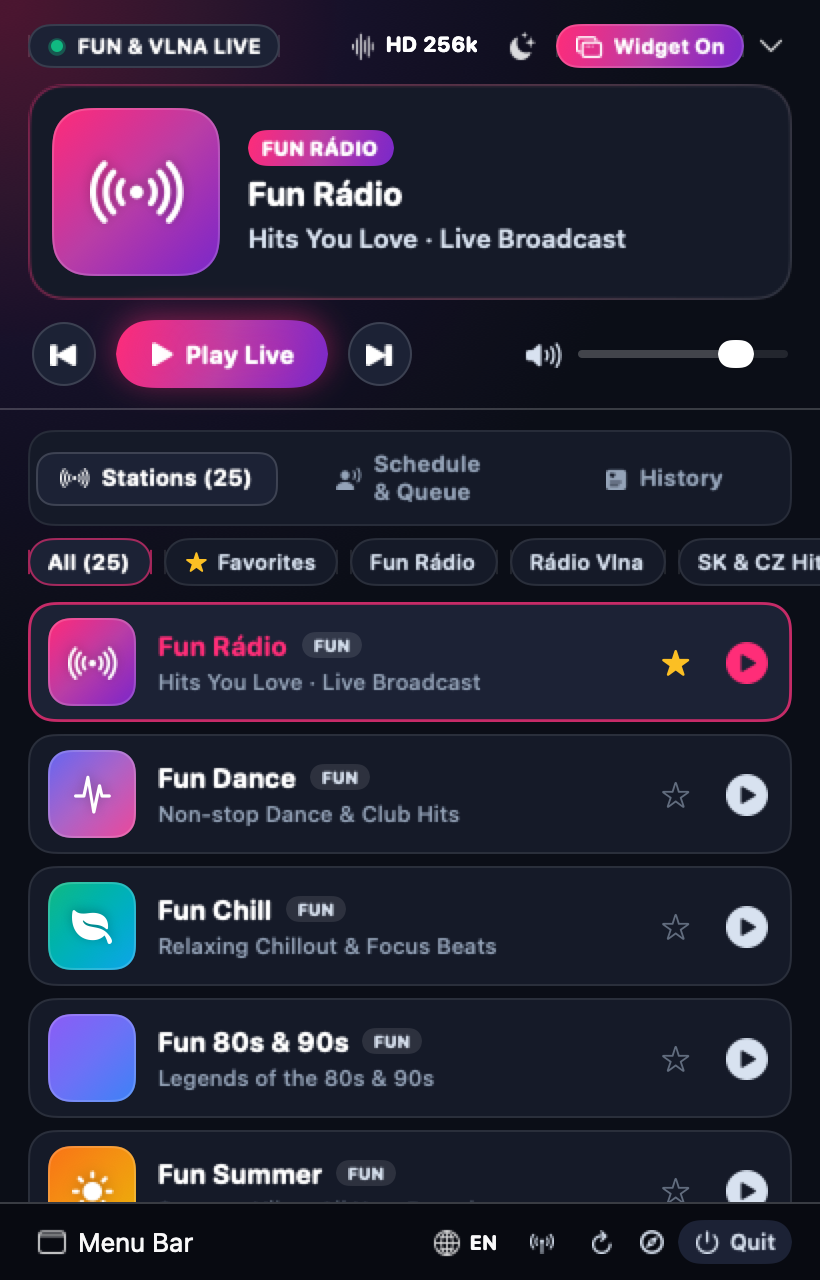
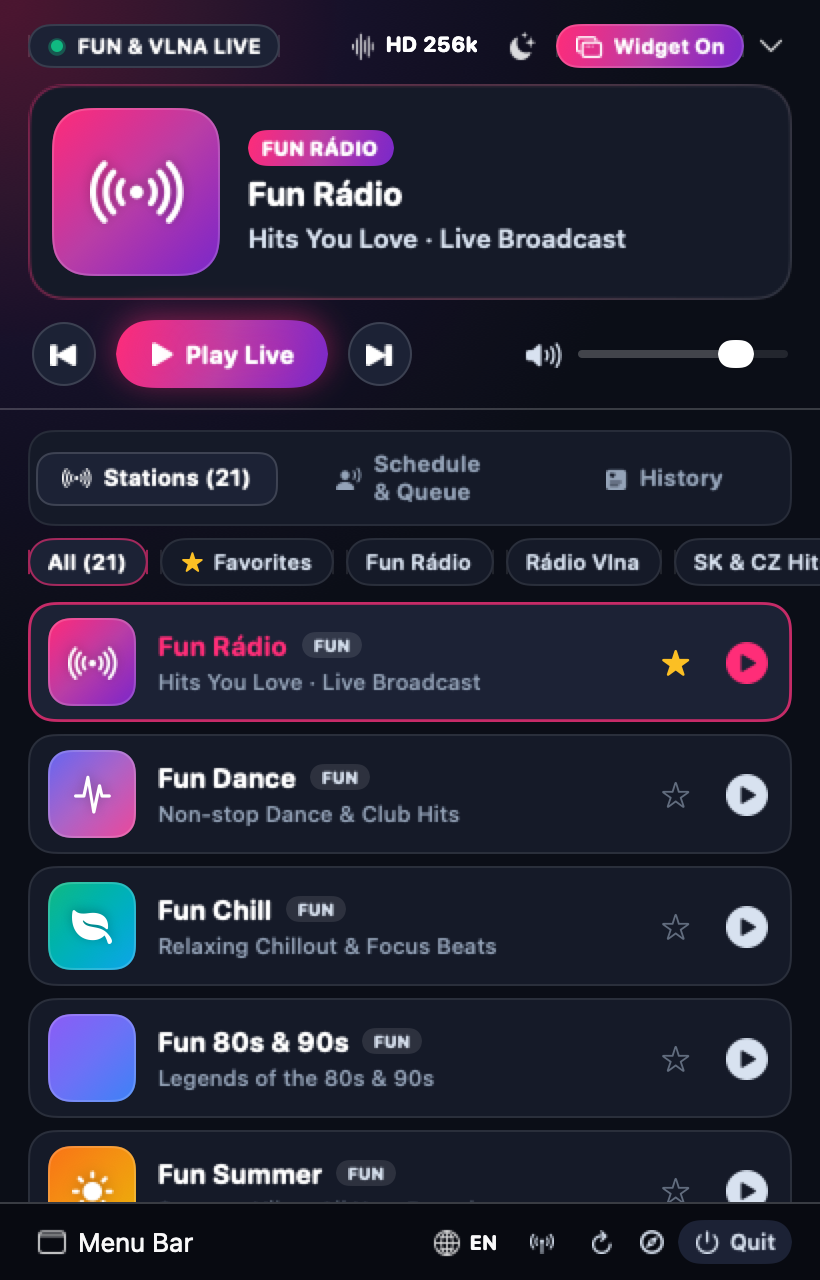
Remove SomaFM stations and document provider listening terms

diff --git a/Sources/FunRadioBar/Models/RadioModels.swift b/Sources/FunRadioBar/Models/RadioModels.swift
@@ -10,7 +10,6 @@ enum RadioNetwork: String, CaseIterable, Identifiable, Codable {
     case vlna = "vlna"
     case bauerAndCz = "bauerAndCz"
     case stvr = "stvr"
-    case somaFM = "somaFM"
 
     var id: String { rawValue }
 
@@ -20,7 +19,6 @@ enum RadioNetwork: String, CaseIterable, Identifiable, Codable {
         case .vlna: return "VLNA"
         case .bauerAndCz: return "SK/CZ"
         case .stvr: return "STVR"
-        case .somaFM: return "SOMAFM"
         case .all, .favorites: return "LIVE"
         }
     }
@@ -30,7 +28,6 @@ enum RadioNetwork: String, CaseIterable, Identifiable, Codable {
         case .vlna: return URL(string: "https://www.radiovlna.sk")!
         case .bauerAndCz: return URL(string: "https://www.expres.sk")!
         case .stvr: return URL(string: "https://www.stvr.sk/radia")!
-        case .somaFM: return URL(string: "https://somafm.com")!
         default: return URL(string: "https://www.funradio.sk")!
         }
     }
@@ -416,64 +413,6 @@ struct RadioStation: Identifiable, Hashable, Codable {
             standardURL: "https://icecast.stv.livebox.sk/devin_128.mp3",
             hdURL: "https://icecast.stv.livebox.sk/devin_128.mp3",
             ecoURL: "https://icecast.stv.livebox.sk/devin_128.mp3"
-        ),
-
-        // --- 5. SOMAFM CODING & FOCUS CHANNELS (4) ---
-        RadioStation(
-            id: "soma_groovesalad",
-            sepiaKey: "groovesalad",
-            icecastMount: "",
-            name: "SomaFM Groove Salad",
-            subtitle: "Ambient & downtempo beats pre prácu",
-            network: .somaFM,
-            symbolName: "sparkles.tv.fill",
-            primaryColorHex: 0x14B8A6,
-            secondaryColorHex: 0x0F766E,
-            standardURL: "https://ice2.somafm.com/groovesalad-256-mp3",
-            hdURL: "https://ice2.somafm.com/groovesalad-256-mp3",
-            ecoURL: "https://ice2.somafm.com/groovesalad-128-mp3"
-        ),
-        RadioStation(
-            id: "soma_defcon",
-            sepiaKey: "defcon",
-            icecastMount: "",
-            name: "SomaFM DEF CON",
-            subtitle: "Hudba pre programovanie a hacking",
-            network: .somaFM,
-            symbolName: "terminal.fill",
-            primaryColorHex: 0x22C55E,
-            secondaryColorHex: 0x15803D,
-            standardURL: "https://ice2.somafm.com/defcon-256-mp3",
-            hdURL: "https://ice2.somafm.com/defcon-256-mp3",
-            ecoURL: "https://ice2.somafm.com/defcon-128-mp3"
-        ),
-        RadioStation(
-            id: "soma_secretagent",
-            sepiaKey: "secretagent",
-            icecastMount: "",
-            name: "SomaFM Secret Agent",
-            subtitle: "Špionážny lounge, jazz a soundtracky",
-            network: .somaFM,
-            symbolName: "sunglasses.fill",
-            primaryColorHex: 0xF43F5E,
-            secondaryColorHex: 0x9F1239,
-            standardURL: "https://ice2.somafm.com/secretagent-128-mp3",
-            hdURL: "https://ice2.somafm.com/secretagent-128-mp3",
-            ecoURL: "https://ice2.somafm.com/secretagent-128-mp3"
-        ),
-        RadioStation(
-            id: "soma_u80s",
-            sepiaKey: "u80s",
-            icecastMount: "",
-            name: "SomaFM Underground 80s",
-            subtitle: "80s synthpop a UK new wave",
-            network: .somaFM,
-            symbolName: "dial.medium.fill",
-            primaryColorHex: 0xA855F7,
-            secondaryColorHex: 0x6B21A8,
-            standardURL: "https://ice2.somafm.com/u80s-256-mp3",
-            hdURL: "https://ice2.somafm.com/u80s-256-mp3",
-            ecoURL: "https://ice2.somafm.com/u80s-128-mp3"
         )
     ]
 }

diff --git a/Sources/FunRadioBar/Services/RadioPlayerManager.swift b/Sources/FunRadioBar/Services/RadioPlayerManager.swift
@@ -360,7 +360,7 @@ final class RadioPlayerManager: ObservableObject {
             return stations
         case .favorites:
             return stations.filter { favoriteStationIds.contains($0.id) }
-        case .funRadio, .vlna, .bauerAndCz, .stvr, .somaFM:
+        case .funRadio, .vlna, .bauerAndCz, .stvr:
             return stations.filter { $0.network == selectedNetworkFilter }
         }
     }
@@ -638,9 +638,8 @@ final class RadioPlayerManager: ObservableObject {
             stationId: "frekvence1_cz",
             channel: "frekvence1"
         )
-        async let somaTask: Void = fetchSomaFMMetadata()
 
-        _ = await (expresTask, europa2Task, melodyTask, rockTask, evropa2CzTask, frekvence1CzTask, somaTask)
+        _ = await (expresTask, europa2Task, melodyTask, rockTask, evropa2CzTask, frekvence1CzTask)
     }
 
     private func fetchExpresMetadata() async {
@@ -717,40 +716,6 @@ final class RadioPlayerManager: ObservableObject {
                     ageSeconds: 0
                 )
             ]
-        } catch {}
-    }
-
-    private func fetchSomaFMMetadata() async {
-        guard let url = URL(string: "https://api.somafm.com/channels.json") else { return }
-        do {
-            let (data, response) = try await URLSession.shared.data(from: url)
-            guard (response as? HTTPURLResponse)?.statusCode == 200,
-                  let root = try JSONSerialization.jsonObject(with: data) as? [String: Any],
-                  let channels = root["channels"] as? [[String: Any]] else { return }
-
-            let somaStations = stations.filter { $0.network == .somaFM }
-            for st in somaStations {
-                guard let ch = channels.first(where: { ($0["id"] as? String) == st.sepiaKey }) else { continue }
-                if let listenersStr = ch["listeners"] as? String, let count = Int(listenersStr) {
-                    self.stationListeners[st.id] = count
-                }
-                if let lastPlaying = ch["lastPlaying"] as? String, !lastPlaying.isEmpty {
-                    let parts = lastPlaying.components(separatedBy: " - ")
-                    let artist = parts.count > 1 ? parts[0].trimmingCharacters(in: .whitespaces) : ""
-                    let song = parts.count > 1 ? parts.dropFirst().joined(separator: " - ").trimmingCharacters(in: .whitespaces) : lastPlaying
-                    let imgStr = (ch["largeimage"] as? String) ?? (ch["image"] as? String)
-                    self.stationTracks[st.id] = [
-                        LiveTrackInfo(
-                            order: 0,
-                            artist: artist,
-                            title: song,
-                            coverURL: imgStr.flatMap(URL.init(string:)),
-                            videoURL: nil,
-                            ageSeconds: 0
-                        )
-                    ]
-                }
-            }
         } catch {}
     }
 

diff --git a/Sources/FunRadioBar/Models/L10n.swift b/Sources/FunRadioBar/Models/L10n.swift
@@ -179,7 +179,6 @@ struct L10n {
         case (.bauerAndCz, .sk): return "SK & CZ Hity"
         case (.bauerAndCz, .en): return "SK & CZ Hits"
         case (.stvr, _): return "STVR"
-        case (.somaFM, _): return "SomaFM Chill"
         }
     }
 
@@ -187,7 +186,6 @@ struct L10n {
         let name: String
         switch net {
         case .stvr: name = lang == .sk ? "STVR / Verejnoprávne" : "STVR Public Radio"
-        case .somaFM: name = "SomaFM Focus & Chill"
         default: name = networkFilterName(net, stationCount: stationCount)
         }
         let stationWord: String
@@ -281,10 +279,6 @@ struct L10n {
         case "stvr_fm": return "Alternative, Indie & Electronic · STVR"
         case "stvr_slovensko": return "STVR Main Public Channel · News & Music"
         case "stvr_devin": return "Culture, Jazz & Classical Music · STVR"
-        case "soma_groovesalad": return "Ambient & Downtempo Beats for Focus"
-        case "soma_defcon": return "Music for Hacking, Coding & Focus"
-        case "soma_secretagent": return "Spy Lounge, Cool Jazz & Soundtracks"
-        case "soma_u80s": return "Early 80s Synthpop & UK New Wave"
         default: return station.subtitle
         }
     }

diff --git a/Sources/FunRadioBar/Services/BroadcastMedia.swift b/Sources/FunRadioBar/Services/BroadcastMedia.swift
@@ -4,8 +4,7 @@ enum BroadcastMedia {
     private static let artworkHosts: Set<String> = [
         "www.funradio.sk", "www.radiovlna.sk", "radiogroup-cms.vercel.app",
         "ddvbk8xgdxx9n6sy.public.blob.vercel-storage.com", "www.expres.sk", "www.europa2.sk",
-        "www.radiomelody.sk", "api.radiorock.sk", "i.ytimg.com", "c.actve.net", "m.actve.net",
-        "api.somafm.com", "somafm.com"
+        "www.radiomelody.sk", "api.radiorock.sk", "i.ytimg.com", "c.actve.net", "m.actve.net"
     ]
 
     private static func allows(_ url: URL, hosts: Set<String>) -> Bool {

diff --git a/README.md b/README.md
@@ -1,6 +1,6 @@
 <p align="center"><img src="docs/images/app-icon.png" width="88" height="88" alt=""></p>
 <h1 align="center">FunRadioBar</h1>
-<p align="center">Slovak and Czech radio, plus SomaFM, one click from your Mac’s menu bar.</p>
+<p align="center">Slovak and Czech radio, one click from your Mac’s menu bar.</p>
 <p align="center"><strong><a href="https://github.com/robo-sk/FunRadioBar/releases/latest/download/FunRadioBar.zip">Download for Mac</a></strong> · <a href="https://github.com/robo-sk/FunRadioBar/releases/latest">Release notes</a><br><sub>macOS Sonoma 14 or later · Apple silicon and Intel · English and Slovenčina</sub></p>
 
 ## On your Mac
@@ -43,4 +43,8 @@ Keep it on the desktop or pin it above other windows. The moon button in the mai
 
 Favorites, listening history and player settings are stored on your Mac. FunRadioBar contacts broadcasters and metadata providers for streams, artwork, song information and schedules. These servers can see your IP address when contacted, including when the player refreshes information while paused. App update checks contact GitHub. Opening a music or video link takes you to that service.
 
-FunRadioBar is an independent player. Station names identify their respective broadcasters.
+## Listening notice
+
+FunRadioBar is a free, independent showcase of what a Mac radio player can look like. We share it for personal exploration and have no plans to sell it or market it for mass distribution.
+
+When you play a station, your Mac connects directly to the broadcaster’s publicly accessible stream URL. Each provider sets its own listening terms and geographic restrictions. Please check the provider’s policies before listening or using a stream elsewhere. Station names identify their respective broadcasters. Installing FunRadioBar grants no additional rights to record, rebroadcast, or redistribute their programming.
